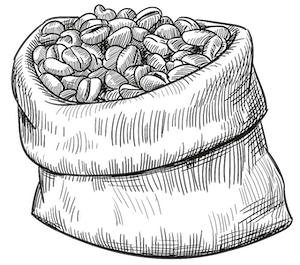
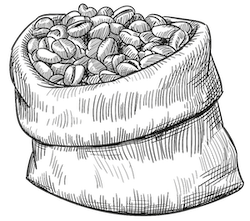
Fixed font weight, image sizes

diff --git a/src/Footer.js b/src/Footer.js
@@ -12,7 +12,7 @@ export default function Footer() {
                 </div>
                 <div className="md:w-1/2 self-center text-gray-900">
                     <div className="max-w-md mx-auto text-center mb-6">
-                        <h3 className="font-semibold text-lg mb-3">Contact Us</h3>
+                        <h3 className="font-medium font-serif text-lg mb-3">Contact Us</h3>
                         <p>+10 (00) 000 0000</p>
                         <p>30/D, Lorem Ipsum, Alighdat CA 00000</p>
                     </div>
@@ -28,8 +28,10 @@ export default function Footer() {
                 </div>
             </div>
             <div className="flex justify-center text-brown-600 gap-1">
-                <p className="text-sm">Check the code on</p>
-                <svg className="w-4" viewBox="0 0 16 16" fill="currentColor"><path fillRule="evenodd" d="M8 0C3.58 0 0 3.58 0 8c0 3.54 2.29 6.53 5.47 7.59.4.07.55-.17.55-.38 0-.19-.01-.82-.01-1.49-2.01.37-2.53-.49-2.69-.94-.09-.23-.48-.94-.82-1.13-.28-.15-.68-.52-.01-.53.63-.01 1.08.58 1.23.82.72 1.21 1.87.87 2.33.66.07-.52.28-.87.51-1.07-1.78-.2-3.64-.89-3.64-3.95 0-.87.31-1.59.82-2.15-.08-.2-.36-1.02.08-2.12 0 0 .67-.21 2.2.82.64-.18 1.32-.27 2-.27.68 0 1.36.09 2 .27 1.53-1.04 2.2-.82 2.2-.82.44 1.1.16 1.92.08 2.12.51.56.82 1.27.82 2.15 0 3.07-1.87 3.75-3.65 3.95.29.25.54.73.54 1.48 0 1.07-.01 1.93-.01 2.2 0 .21.15.46.55.38A8.013 8.013 0 0016 8c0-4.42-3.58-8-8-8z"></path></svg>
+                <p className="text-sm">Check the code on </p>
+                <a href="https://github.com/moonlik/coffee-shop-project">
+                    <svg className="w-4" viewBox="0 0 16 16" fill="currentColor"><path fillRule="evenodd" d="M8 0C3.58 0 0 3.58 0 8c0 3.54 2.29 6.53 5.47 7.59.4.07.55-.17.55-.38 0-.19-.01-.82-.01-1.49-2.01.37-2.53-.49-2.69-.94-.09-.23-.48-.94-.82-1.13-.28-.15-.68-.52-.01-.53.63-.01 1.08.58 1.23.82.72 1.21 1.87.87 2.33.66.07-.52.28-.87.51-1.07-1.78-.2-3.64-.89-3.64-3.95 0-.87.31-1.59.82-2.15-.08-.2-.36-1.02.08-2.12 0 0 .67-.21 2.2.82.64-.18 1.32-.27 2-.27.68 0 1.36.09 2 .27 1.53-1.04 2.2-.82 2.2-.82.44 1.1.16 1.92.08 2.12.51.56.82 1.27.82 2.15 0 3.07-1.87 3.75-3.65 3.95.29.25.54.73.54 1.48 0 1.07-.01 1.93-.01 2.2 0 .21.15.46.55.38A8.013 8.013 0 0016 8c0-4.42-3.58-8-8-8z"></path></svg>
+                </a>
             </div>
         </div>
         

diff --git a/src/Menu.js b/src/Menu.js
@@ -26,13 +26,17 @@ export default function Menu(props) {
                     className="fixed bottom-5 right-5 w-16 h-16 rounded-full bg-yellow-800 text-white block z-40 focus:outline-none hover:bg-yellow-700 hover:transition ease-in-out duration-300" 
                     onClick={() => props.handleIsShowing(true)}>
                     <span className="sr-only">Open shop cart</span>
-                    <svg xmlns="http://www.w3.org/2000/svg" className="absolute inset-4 transition duration-300 transform" fill="none" viewBox="0 0 24 24" stroke="currentColor">
-                        <path strokeLinecap="round" strokeLinejoin="round" strokeWidth={2} d="M3 3h2l.4 2M7 13h10l4-8H5.4M7 13L5.4 5M7 13l-2.293 2.293c-.63.63-.184 1.707.707 1.707H17m0 0a2 2 0 100 4 2 2 0 000-4zm-8 2a2 2 0 11-4 0 2 2 0 014 0z" />
+                    <svg xmlns="http://www.w3.org/2000/svg" className="absolute inset-3 transition duration-300 transform w-10 h-10" fill="none" viewBox="0 0 24 24" stroke="currentColor">
+                        <path strokeLinecap="round" strokeLinejoin="round" strokeWidth={1} d="M3 3h2l.4 2M7 13h10l4-8H5.4M7 13L5.4 5M7 13l-2.293 2.293c-.63.63-.184 1.707.707 1.707H17m0 0a2 2 0 100 4 2 2 0 000-4zm-8 2a2 2 0 11-4 0 2 2 0 014 0z" />
                     </svg>
 
-                    <div className="z-40 absolute -top-1 -right-1 w-8 h-8 rounded-full bg-yellow-300 text-gray-600 p-1">
-                        <p className="text-base">{props.badgeContent}</p>
-                    </div>
+                    {props.badgeContent !== 0 ? 
+                        <div className="z-40 absolute -top-1 -right-1 w-8 h-8 rounded-full bg-yellow-300 text-gray-600 p-1">
+                            <p className="text-base">{props.badgeContent}</p>
+                        </div>
+                    : <div></div>
+                    }
+                    
             </button>
            
         </div>

diff --git a/src/Cart.js b/src/Cart.js
@@ -20,13 +20,13 @@ export default function Cart(props) {
                         
                         <div className="h-screen flex flex-col py-6 bg-white shadow-xl overflow-y-scroll">
                             <div className="px-4 sm:px-6">
-                                <p className="text-lg lg:text-2xl font-serif font-semibold text-gray-900 border-b pb-8">Shopping Cart</p>
+                                <p className="text-lg lg:text-2xl font-serif font-medium text-gray-900 border-b pb-8">Shopping Cart</p>
                             </div>
                             <div className="mt-6 flex-1 px-4 sm:px-6">
                                 {props.cartItems.length !== 0 ? props.cartItems.map((product) => (
                                     <div className="flex gap-8 py-6" key={product.id}>
                                         <div className="w-3/5">
-                                            <h4 className="text-lg font-semibold">{product.name}</h4> 
+                                            <h4 className="text-lg font-medium">{product.name}</h4> 
                                         </div>
                                         <div className="w-1/5 self-center">
                                             <p className="text-lg">{product.amount}</p>

diff --git a/src/Product.js b/src/Product.js
@@ -4,7 +4,7 @@ export default function Product(props) {
             {props.productItems.map((product) => (
                 <div className="flex mb-4 w-full transition duration-500 ease-out transform hover:scale-105 cursor-pointer" key={product.id} onClick={() => props.addToCart(product)}>
                     <div className="relative z-10 bg-yellow-100 px-4 py-6 border-current rounded-lg text-yellow-900 w-4/5">
-                        <p className="font-serif font-bold text-lg mb-3">{product.name}</p>
+                        <p className="font-serif font-medium text-lg mb-3">{product.name}</p>
                         <p className="font-light">{product.description}</p>
                     </div>
                     <div className="relative transform -translate-x-2 rounded-r-md p-4 bg-brown-500 text-white w-1/5 flex items-end">

diff --git a/src/Header.js b/src/Header.js
@@ -18,7 +18,7 @@ export default function Header() {
                   >
                     <div className="hidden md:block md:ml-10 md:pr-4 md:space-x-8">
                       {navigation.map((item) => (
-                        <a key={item.name} href={item.href} className="font-bold tracking-wider uppercase text-white hover:text-yellow-500">
+                        <a key={item.name} href={item.href} className="font-medium tracking-wider uppercase text-white hover:text-yellow-500">
                           {item.name}
                         </a>
                       ))}

diff --git a/src/About.js b/src/About.js
@@ -29,7 +29,7 @@ export default function About() {
                         </div>
                     </div>
                 </div>
-                <img src={coffeeBag} className="absolute bottom-10 right-10 w-40 lg:w-auto" alt="A bag with coffee beans"></img>
+                <img src={coffeeBag} className="absolute bottom-5 right-5 w-28 lg:w-auto" alt="A bag with coffee beans"></img>
             </div>
 
             <div className="bg-company-image bg-bottom bg-cover h-64 md:h-96 max-w-screen-2xl mx-auto"></div>

diff --git a/src/ImageSlider.js b/src/ImageSlider.js
@@ -12,7 +12,7 @@ export default function ImageSlider() {
     
     return (
         <div className="relative max-w-screen-2xl mx-auto bg-white h-72 overflow-hidden">
-            <div className="relative hover:animate-scroll flex">
+            <div className="relative h-full hover:animate-scroll flex">
                 {instaPhoto.map((photo) => (
                     <img key={photo.id} src={photo.url} alt="Instagram" className="object-cover"></img>
                 ))}
